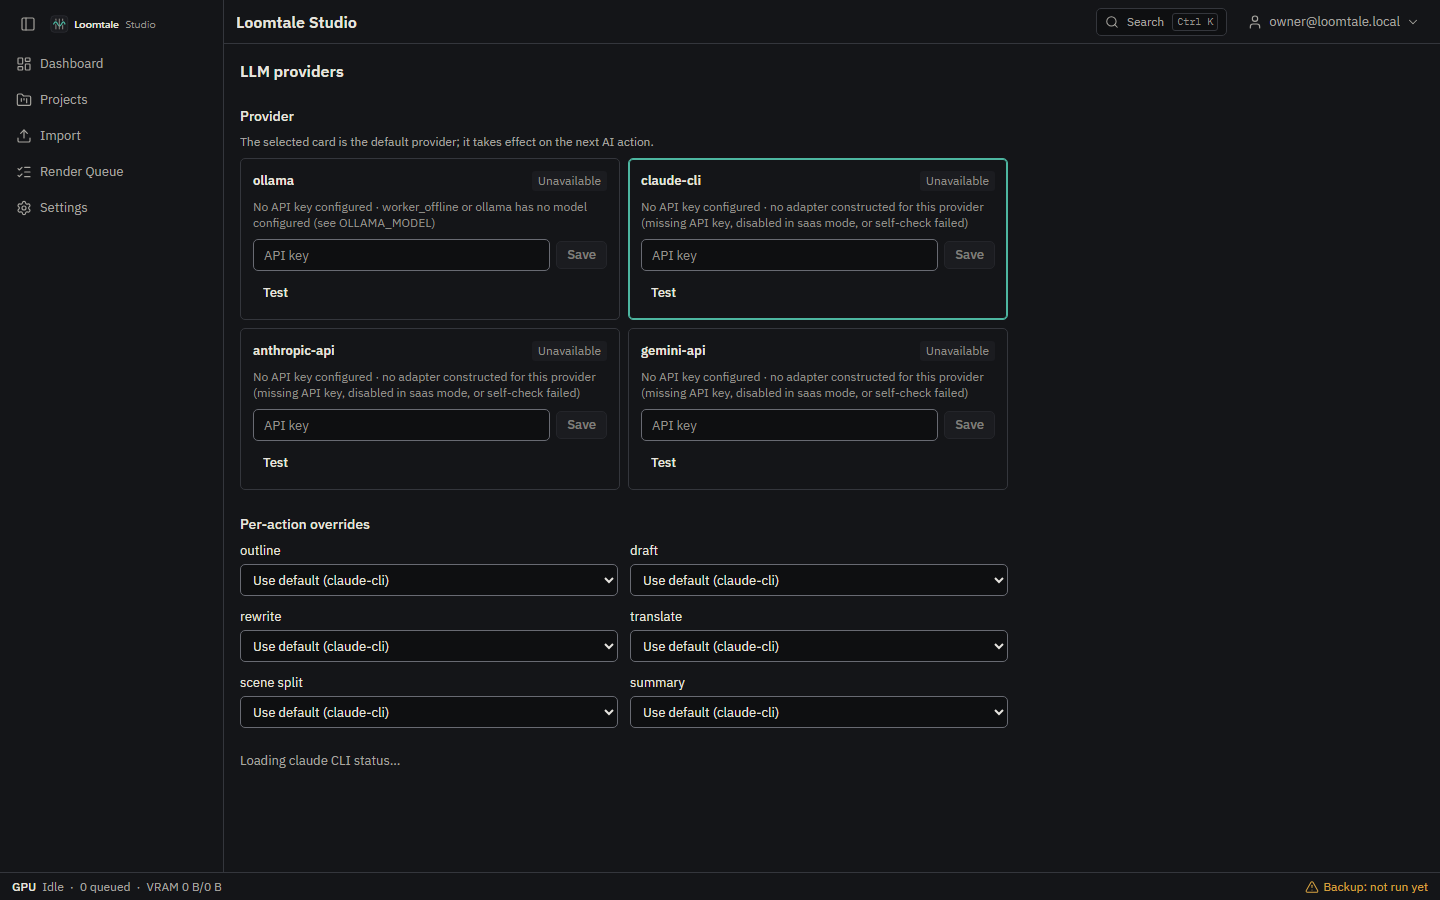
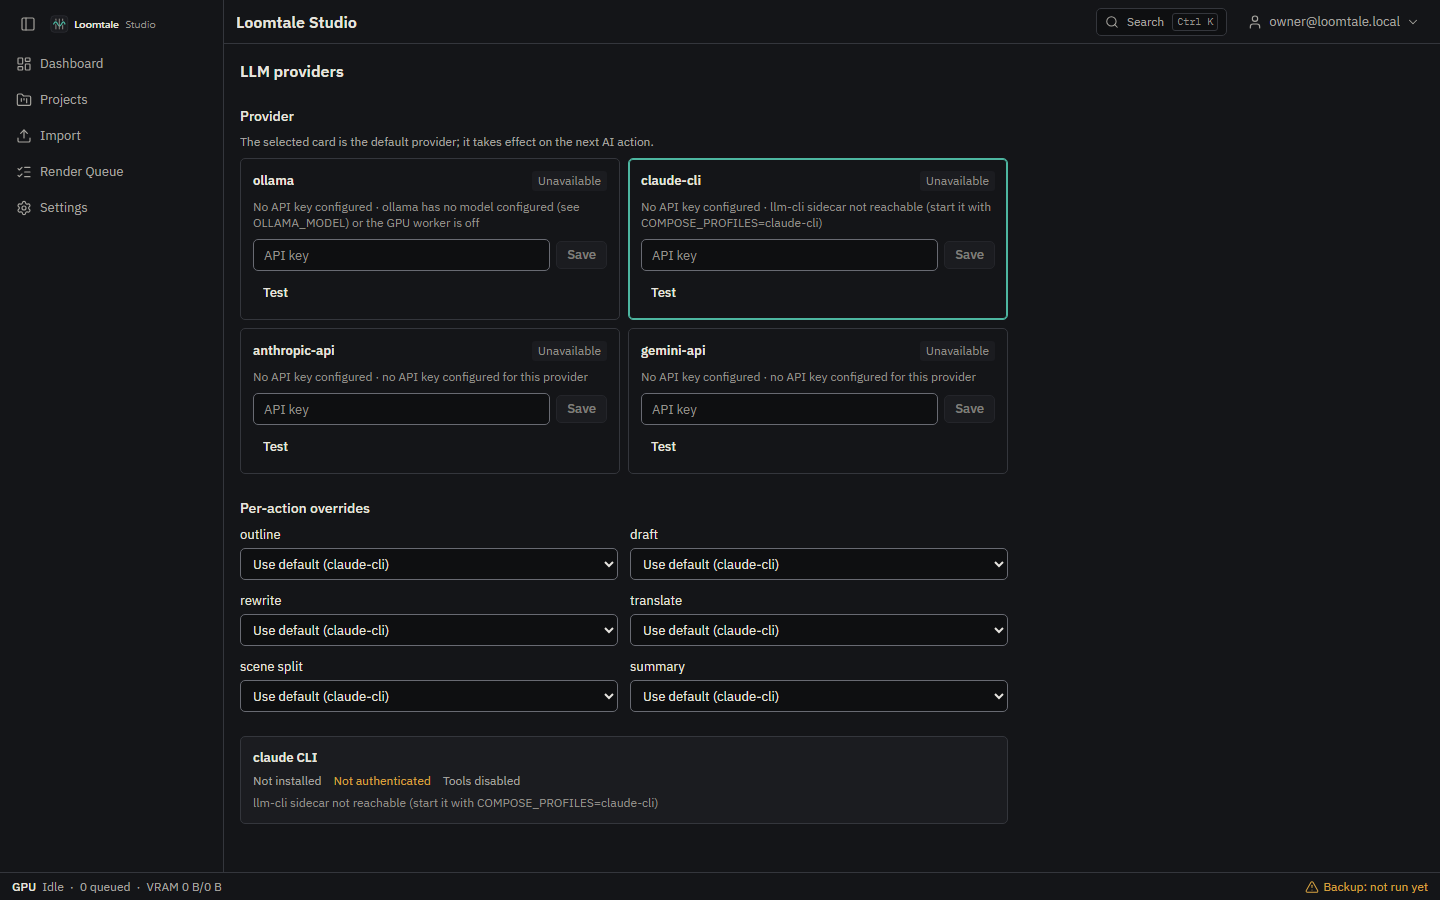
docs(plan): record the story writer verification fixes and live results

diff --git a/plans/260924-2244-loomtale-studio-mvp/reports/cook-260925-phase-06-story-writer.md b/plans/260924-2244-loomtale-studio-mvp/reports/cook-260925-phase-06-story-writer.md
@@ -1,6 +1,6 @@
 # Cook report: phase 6, story writer, import and LLM settings
 
-Branch `feat/story-writer-import`, finished 2026-09-26. The code is complete and verified against a live stack, but none of the live-LLM success criteria could be run: `secrets/claude_oauth_token.txt` is empty (the user has not run `claude setup-token` yet) and Ollama has no model until phase 9b. The code review's 2 Critical and 5 of its 8 High findings are fixed and re-verified (see "Code review"). H1, H2 and H5 were fixed afterwards (see "Review follow-up fixes"); the live-LLM success criteria are still to be run.
+Branch `feat/story-writer-import`, finished 2026-09-26. The code is complete and verified against a live stack, but none of the live-LLM success criteria could be run: `secrets/claude_oauth_token.txt` is empty (the user has not run `claude setup-token` yet) and Ollama has no model until phase 9b. The code review's 2 Critical and 5 of its 8 High findings are fixed and re-verified (see "Code review"). H1, H2 and H5 were fixed afterwards (see "Review follow-up fixes"). The independent verification then found two blockers with the real claude CLI; both are fixed and the live success criteria now pass with `COMPOSE_PROFILES=claude-cli` (see "Verification blockers").
 
 ## What shipped
 
@@ -48,10 +48,10 @@ Screens are in `phase-06-screens/`: 01 series list, 02 wizard progress, 03 impor
 
 | Criterion | Status |
 |---|---|
-| Series → bible → outlined episode → ≥4,500-word EN draft with the real claude CLI | **Not run**: needs `claude setup-token` |
-| VI draft through Translate with glossary names | **Not run**: needs a live LLM |
-| GB18030 chapter → episodes → translated EN draft | Import half verified (encoding unit tests, UTF-8 e2e and integration); translation not run |
-| Switching the provider in Settings changes the next action's provider | **Not run**: needs two available providers |
+| Series → bible → outlined episode → ≥4,500-word EN draft with the real claude CLI | **Met** (see "Verification blockers" for step ids) |
+| VI draft through Translate with glossary names | **Met** |
+| GB18030 chapter → episodes → translated EN draft | **Met** |
+| Switching the provider in Settings changes the next action's provider | **Pending**: only claude-cli can complete an action. The switch itself is shown: the next action is routed to Ollama, and Settings explains why it cannot run |
 | Ollama variant | Deferred to phase 9c by design |
 
 ## Code review
@@ -82,6 +82,29 @@ Verification after these fixes (2026-09-26): `scripts/tb.sh gen lint test` green
 
 Known limits: accepting the same finished step twice applies it twice (the client clears the proposal after one Accept); an interactive Translate appends to the target draft rather than aligning paragraph by paragraph.
 
+## Verification blockers
+
+Verifier report: `plans/reports/code-reviewer-260926-0950-phase-06-story-writer-verification-review.md` (do not merge: H1, H2, live criteria not met). Outcome of each blocking item:
+
+| Item | Outcome |
+|---|---|
+| H1 claude-cli fails any generation over 15s | **Fixed.** The sidecar now commits `200` and flushes the headers as soon as it accepts a run; errors still travel in the final `result` line. The worker's claude-cli adapter uses its own client with a dial timeout but no response-header timeout, bounded by the step context and `LLMCLI_TIMEOUT`. Tests: a fake CLI that stays silent for 3s behind a 1s header timeout, and a check that `Build` gives claude-cli that client. `--include-partial-messages` was not added (optional; results are polled, not streamed) |
+| H2 Settings always shows claude-cli unavailable | **Fixed.** The sidecar's `/healthz` now reports the CLI version in `X-Claude-CLI-Version`. The worker probes it on every 5s heartbeat and publishes installed, authenticated, version and reason in `worker_status.providers` (no migration: it is jsonb). `GET /settings/llm` and `/settings/llm/cli-status` read the worker's view for every provider; a key-based provider is also available when the tenant stored a key. Test now runs as an `llm.check.<provider>` pipeline step in the worker (permanent on failure, 30s wait, canceled on timeout), and an unavailable provider fails fast with the worker's reason. The api no longer dials `llm-cli`. Unit tests cover the worker probe, the settings availability rules, CLI status and Test; the integration test `TestClaudeCLIStatusComesFromTheWorker` checks that the CLI status and claude-cli availability agree, and with `LLMCLI_EXPECTED=1` that the sidecar reports its version and Test succeeds |
+| Live criteria re-run | **Met.** Two more defects surfaced and were fixed first. (1) No adapter sent `JSONSchema` to the model, so `llm.outline` came back with `word_count` instead of `targetWords` and failed validation twice; `GenerateStructured` now appends the schema to `System` (a fixed server constant). (2) The API never filled `durationEstimateMinutes`; drafts and the episode list now return `duration.Estimate` for en/vi (not for character-counted zh) |
+| Browser e2e | A Trusted Types race surfaced: the default policy was installed at idle time, and Radix ScrollArea's injected `<style>` crashed the writer on a hard reload ("Something went wrong", `TrustedHTML` error in the trace). `main.tsx` now awaits the policy before the first render; DOMPurify stays in its own chunk |
+
+Live evidence (claude CLI 2.1.282, run under `COMPOSE_PROFILES=claude-cli` on `-p loomtale-a`, driven through the public API by the verifier's harness, which was never committed):
+
+- Settings: `cli-status` returned installed, authenticated, tools disabled, version `2.1.282 (Claude Code)`. Test on claude-cli returned `ok:true` through the worker. Ollama showed `available:false` with "ollama has no model configured (see OLLAMA_MODEL) or the GPU worker is off", and anthropic-api and gemini-api showed "no API key configured for this provider".
+- Criterion 1: series `01a0dbd2-36db-7a4d-91c6-1138bbb4dd26`, run `01a0dbd2-36e0-7e42-893c-98f7711715d2`. `llm.bible_seed` step `01a0dbd2-36e0-7e44-87aa-7c55ebe38f4f` finished (6 sections), and `llm.outline` step `01a0dbd2-36e0-7e47-bf7f-b00e5ea843e9` produced episode `01a0dbd3-2b65-7269-b5e6-046eeb45d79c` with 9 beats. Nine expand_beat steps (`01a0dbd3-2d40-…` to `01a0dbd9-338f-…`), each 34–58s on claude-cli, produced an EN draft of 15,428 words. The API estimate is 102.85 min, on both the draft and the episode list. Continue was not needed in this run; an earlier run on the same build appended text through 13 expand_beat steps (8,227 words), and the verifier's probe showed Continue working (311 words).
+- Criterion 2: 21 translate steps of about 700 words each (`01a0dbd9-ff26-…` to `01a0dbe8-7acd-…`, 26–54s each), applied through apply-step, produced a VI draft of 20,681 words (125.34 min). With the glossary set to Lin Feng→Lâm Phong, Azure Cloud Sect→Thanh Vân Tông and Zhao Yun→Triệu Vân, the VI text contains Lâm Phong 158 times, Thanh Vân Tông once and Triệu Vân 62 times, matching the EN counts, with no English name left untranslated.
+- Criterion 3: a 2-chapter GB18030 upload (923 characters), import `01a0dbe8-e0c1-7df4-86e5-a5d937740e00`, was detected as `gb18030` with preset `zh`. Commit run `01a0dbe8-e0cf-7b5a-94dd-a9f0241356fa` translated both chapters on claude-cli (steps `01a0dbe8-e0ce-72ad-…` and `01a0dbe8-e0ce-7e9d-…`). Episodes `01a0dbe8-e0cc-…` and `01a0dbe8-e0ce-72bb-…` each have a `zh` draft (435 and 488 characters) and an EN draft (314 and 336 words, all paragraphs `origin=model` and tainted), for example "The morning mist had not yet cleared when the gates of the Azure Cloud Sect emerged…".
+- Criterion 4 (pending): before the switch, shorten ran on claude-cli. After `PUT /settings/llm {default: ollama}`, the next shorten step `01a0dbe9-13be-7983-91c1-cb4624a45083` was queued on the `gpu` queue, which is Ollama's route, and was canceled through `/steps/{id}/cancel`. Test on ollama returned `ok:false` with the reason. After switching back, shorten step `01a0dbe9-61f4-730f-b323-e32a1fef9f71` ran on claude-cli. A second working provider (an Anthropic or Gemini key, or Ollama in phase 9b/9c) is needed to see an action complete on the switched provider.
+
+Checks after these fixes: `scripts/tb.sh gen lint test` green with no generated-code drift; web typecheck, lint, 69 vitest tests, build and bundle budget green; integration suite with `CI=1` on a fresh stack: 63 top-level tests pass, 0 fail, 0 skip; `TestClaudeCLIStatusComesFromTheWorker` also passes with the sidecar running and `LLMCLI_EXPECTED=1`; the live harness passes; both Playwright specs pass. Screen 05 was re-captured and shows the worker's reasons.
+
+Still open from the verifier report (not blocking): M1 in part (an action on an unavailable provider still waits in its queue; Settings now shows the reason and Test fails fast, but `CreateAiAction` does not refuse it), M2 to M10, and the Lows. LLM steps still store an empty `provider_ref`; the provider appears in the step output.
+
 ## Follow-ups
 
 - The writer shows the raw step `error_msg`, which exposes internal hostnames (for example, `lookup llm-cli on 127.0.0.11:53`). Map it to a user-safe message and keep the detail in logs.
@@ -90,4 +113,6 @@ Known limits: accepting the same finished step twice applies it twice (the clien
 
 ## Unresolved questions
 
-- Can the user run `claude setup-token` (and set `COMPOSE_PROFILES=claude-cli`) so the live success criteria can be verified before phase 7, or should they be carried to phase 9c together with the Ollama variant?
+- Will an Anthropic or Gemini key be provided so the provider-switch criterion can complete, or does it move to phase 9c together with the Ollama variant?
+- Should `CreateAiAction` refuse an action whose resolved provider the worker reports unavailable (the rest of M1)? That needs a new response code in the OpenAPI contract.
+- Does the lead accept polling in place of token streaming (M10)?
